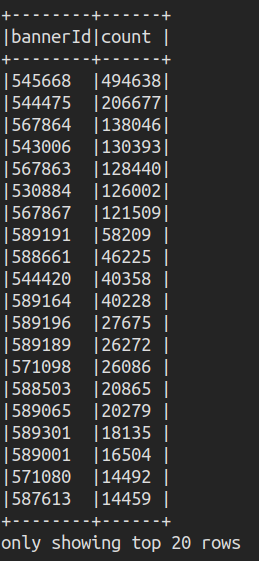
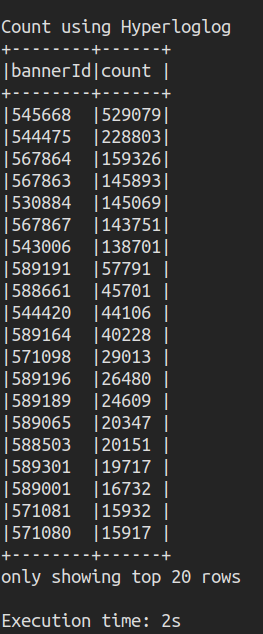
update code kafka task

Changed region(s): [[0.0, 0.0, 0.8958, 1.0], [0.7722, 0.8788, 0.9266, 1.0]]

diff --git a/task-kafka/README.md b/task-kafka/README.md
@@ -45,9 +45,12 @@ Note: startTime và endTime là khoảng thời gian tùy chọn, điền theo f
 
 - Chương trình sử dụng thuật toán HyperLogLog để đạt được hiệu suất cao hơn và ít tài nguyên hơn
 - Sai số của thuật toán nằm trong khoảng 1%
-- Kết quả không sử dụng HyperLogLog
-![image](not_HyperLogLog.png)
-- Kết quả 
+- Kết quả không sử dụng HyperLogLog từ HDFS
+![image](img.png)
+- Kết quả sử dụng HyperLogLog từ HDFS
+![image](img_1.png)
+- Kết quả sử dụng HyperLogLog từ Mysql
+![image](result_mysql.png)
 
 
 Note: Trước khi chạy lệnh các lệnh bash ở trên, chúng ta phải build thành file jar with dependencies
